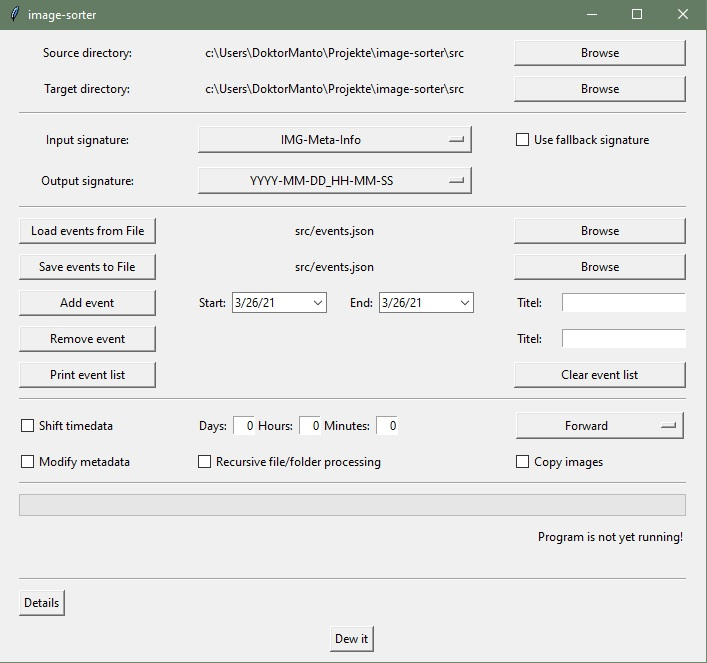
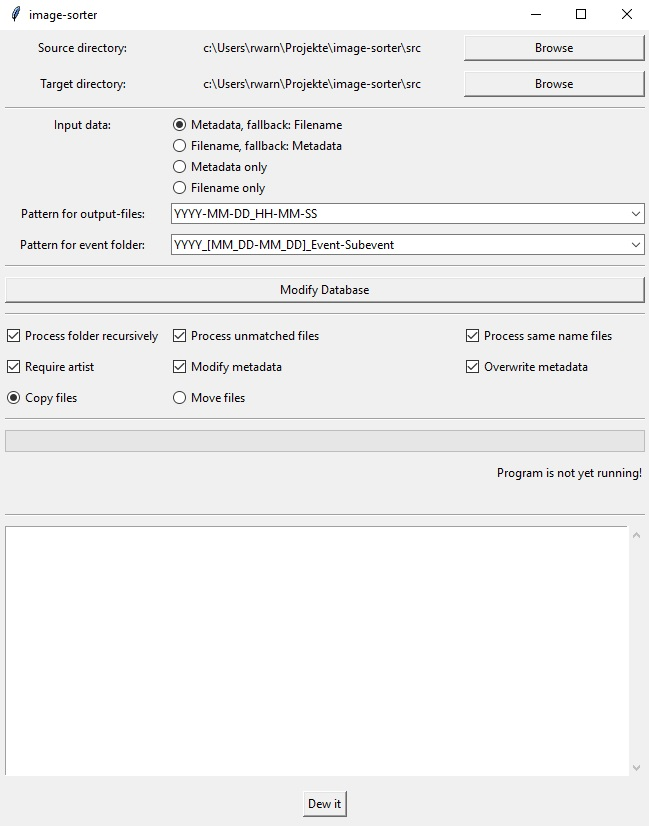
Major: Big overhaul for v1.0.0

diff --git a/changelogs/v1.0.0.md b/changelogs/v1.0.0.md
@@ -1,0 +1,69 @@
+# [Changelog v1.0.0](changelogs/v1.0.0.md)
+
+This document contains the most important changes made.
+
+## Features
+
+This program allows to sort images from an input directory.
+All images are moved or copied to a target directory according to the
+settings defined in GUI. This allowes for example to rename the files to a
+specific nameingpattern or force the program to modify the file metadata.
+A user input database is used to extract event and artist information,
+allowing the program to distribute the files into multiple folder according
+to the obtained information.
+If a date could be extracted the file is moved to the corresponding year/event folder.
+If not the file is moved to a misc folder.
+Misc folder are also possible inside a year folder for files that have no event/artist.
+
+### Abstract
+
+Complete overhaul of the GUI and database.
+All database related functions were moved to a seperate menu
+allowing to modify each component of the database individually.
+Furthermore the database was improved to contain more detailed data.
+
+### Details
+
+- GUI changes:
+  - Add GUI for: Add, modify & delete...
+    - database
+    - events
+    - subevents
+    - participants
+    - persons
+    - artists
+  - Change GUI OptionMenu to Combobox
+  - Add GUI tooltips
+  - Add multiple boxes: basebox, selectionbox, ...
+- Database changes:
+  - Add validation tests for persons, artists and subevents
+  - Add subevents and participants to events
+  - Add event_id to subevents
+  - Rework db.getter, inputchecks and GUI functions
+  - Rework insertion into database + load/save json
+  - Enable saving and loading database from json
+  - Move time shift to individual artist
+  - Cascade db updates
+- General
+  - Add test suit for sorting testing almost all setting-combinations with a multitude of testfiles
+  - Add input warnings and adjust GUI to show them
+  - Add script for creating testing images/files
+  - Add same name file processing
+  - Add sample images/files
+  - Add subevent processing
+  - Add time frame testing
+  - Add db tests
+  - Enable pytonoptimizations for exe
+  - Enable timeestimate
+  - Allow to select event or artist from list via selectionbox if needed
+- Code related:
+  - Add and use date related helper classes
+  - Split db-boxes into mutliple files
+  - Algorithm for getting an event from an artist was improved.
+  - Sorting-algorithm is now date dependent.
+  - Improve input regex to allow trailing characters
+  - Remove get_num_signature_regex
+- BUG-Fixes:
+  - Participant date was not tested against
+  - Dateentry with input 00 as year
+  - ...

diff --git a/README.md b/README.md
@@ -23,6 +23,21 @@ All functionalities are accesseable via a simple GUI.
 
 ## List of Features
 
+- Database for events, artists, persons
+  - load and save database from json
+- Image sorting according to present database data
+  - input and output folder selection
+  - select input type (filename or metadata)
+  - select output signature for folder and file
+- Settings for:
+  - process folder recursively
+  - process unmatched files like (.txt)
+  - processing files with identical name
+  - require artist for files
+  - metadata modifiction
+  - metadata overriding
+  - save or move files
+
 ## Installation
 
 Download this repository or install directly from GitHub
@@ -71,7 +86,7 @@ Run the program using your usual Python IDE (like Visual Code) or via the consol
 ### GUI
 
 The GUI lets you select the input and output directory.
-Furthermore options are available to add events and authors.
+Further menus are available to add events and authors to the database.
 Progress-bars are given for continuous observation of the progress.
 
 ![GUI](/docs/images/gui.jpg)
